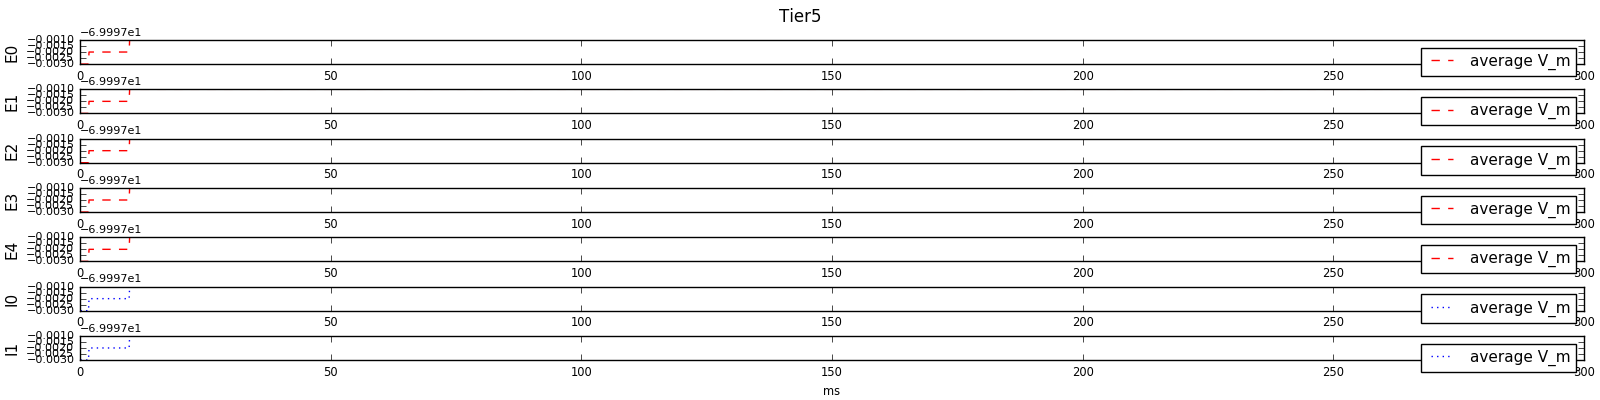
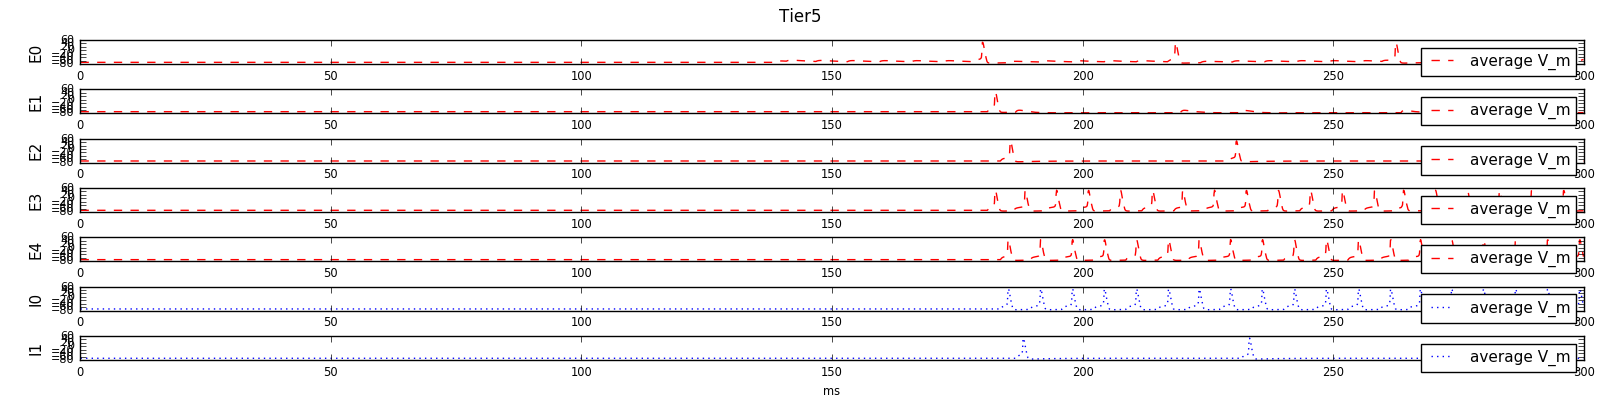
weights set

diff --git a/spinal_cord/weights.py b/spinal_cord/weights.py
@@ -17,8 +17,8 @@ class Weights(Enum):
 
     # Coonnections between tiers
 
-    e0e0 = 0.
-    e3e0 = 0.
+    e0e0 = 45.
+    e3e0 = 40.
     e2e2 = 100.
 
     # Connections to pool
